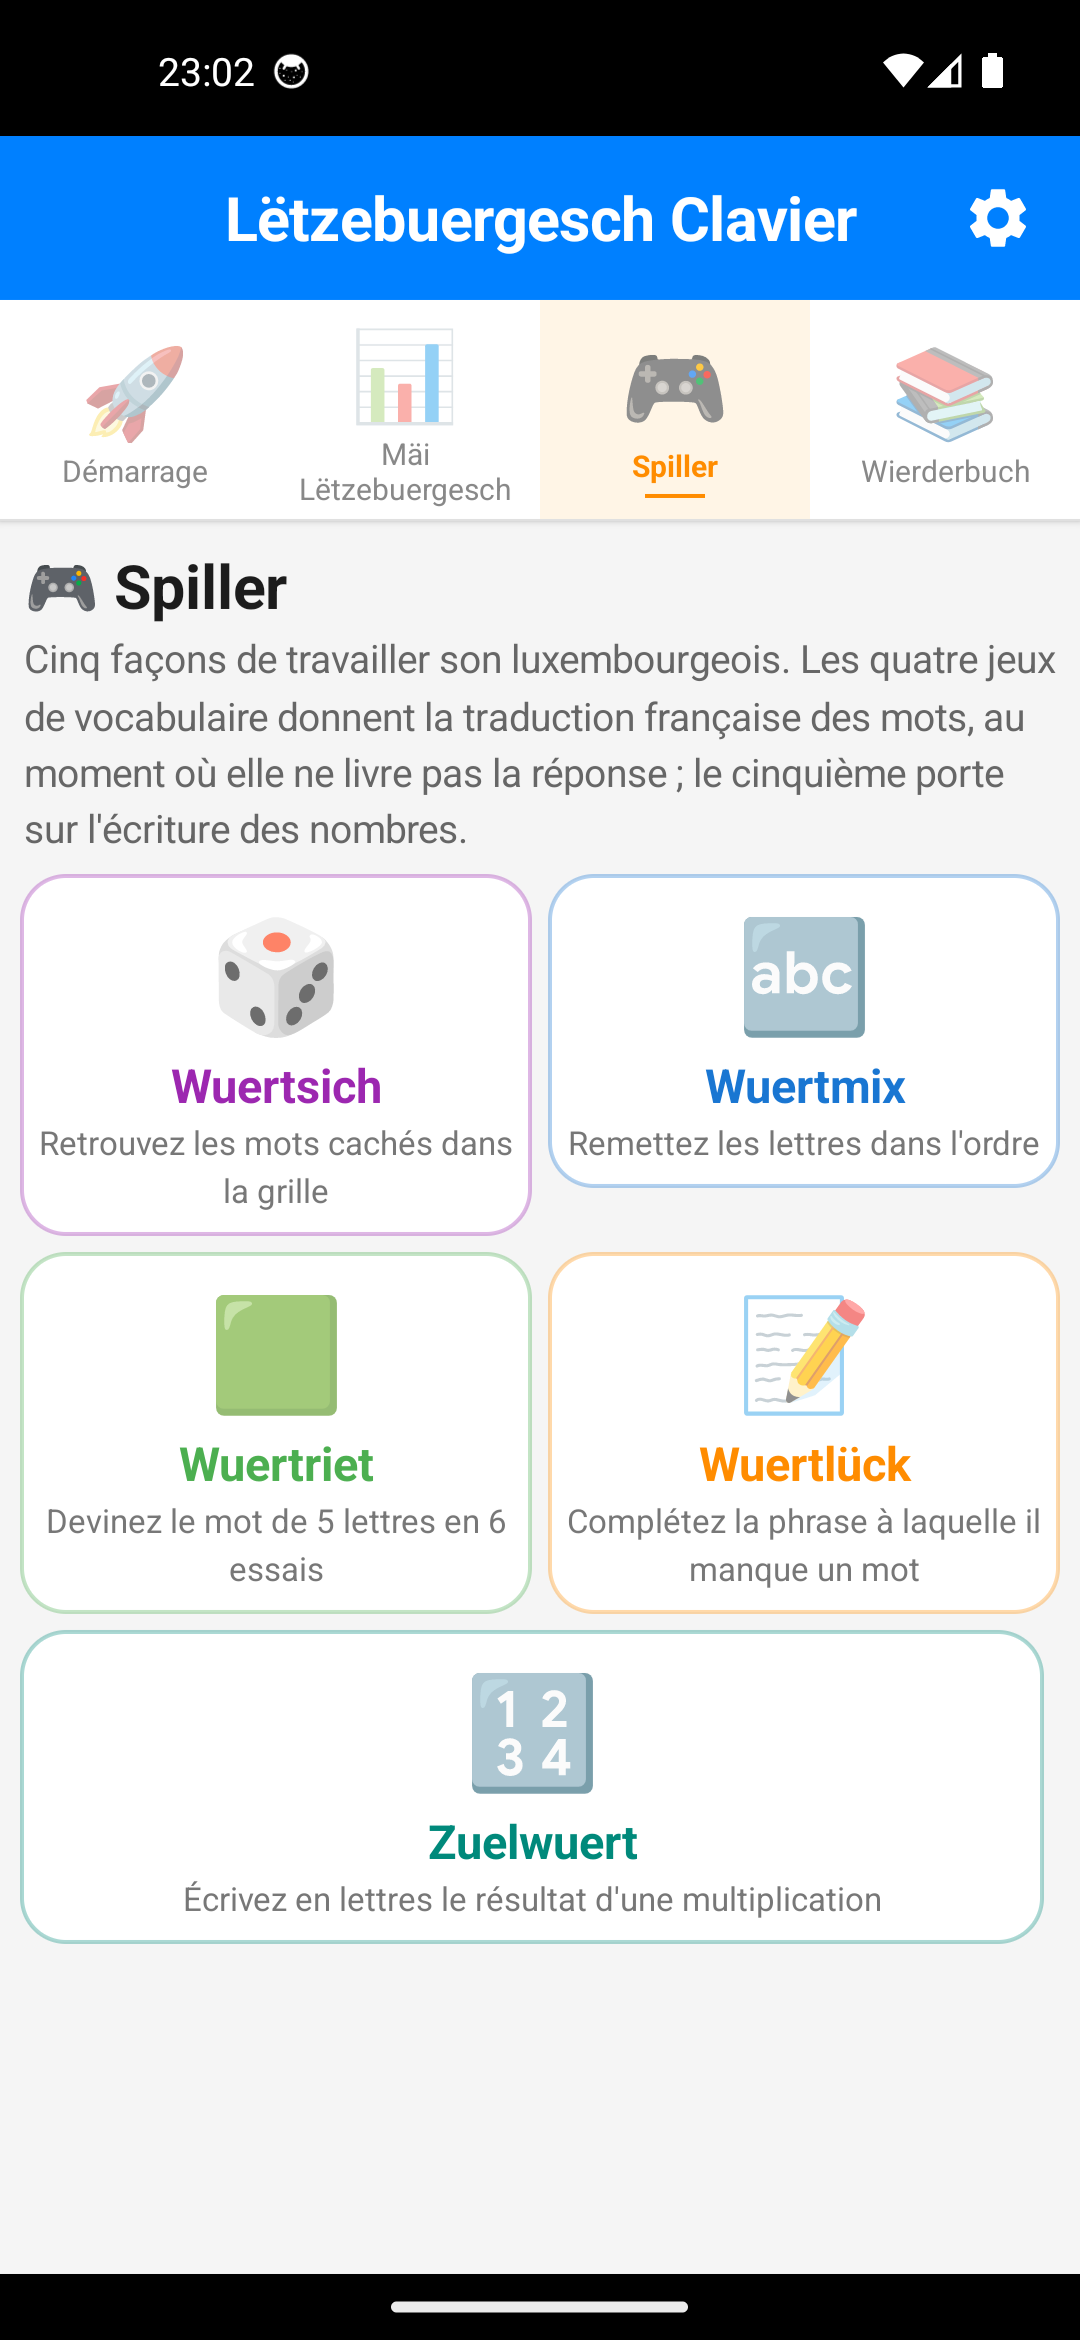
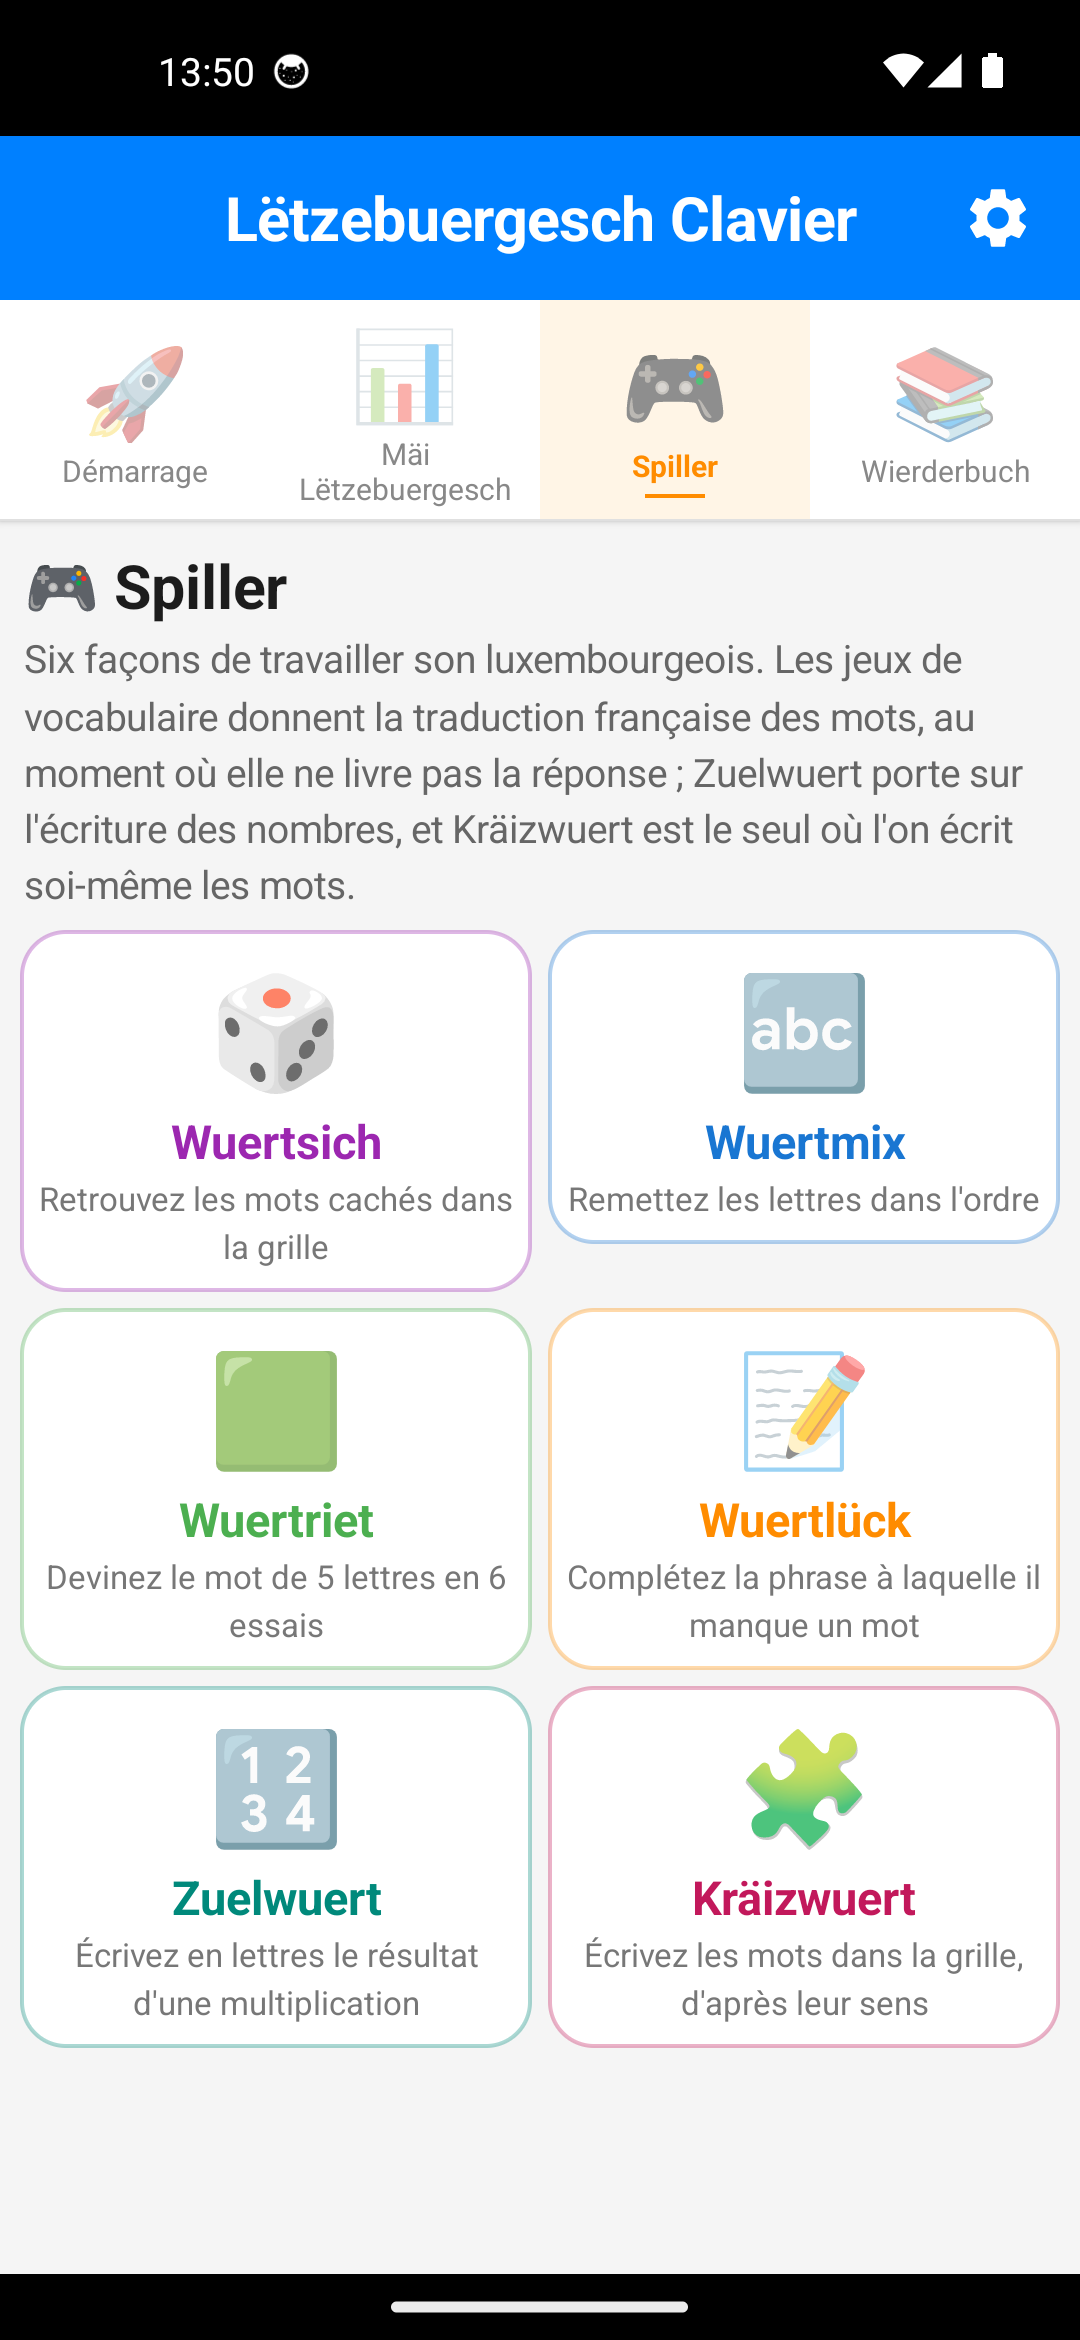
docs(site): le site compte six jeux, et l'inventaire des licences le nouvel actif
Onze mentions de « cinq jeux » devenues fausses, réparties sur la FAQ, le
dossier institutionnel, la feuille de route, le dossier de presse, la page
ambassadeurs et les deux triptyques. La capture de l'écran Spiller est
refaite : elle montrait cinq cartes.

Le dossier des licences gagne sa ligne pour luxemburgish_crossword.json,
et c'est la raison principale de ce commit : un inventaire destiné à un
ministère qui oublie un actif est faux, pas incomplet. Il est surligné
comme ses voisins — les définitions viennent du LOD en CC0, mais les mots
et leurs fréquences des deux corpus, donc la clause non commerciale de
LuxAlign le suit. Les totaux passent de 16,4 à 16,6 Mo sur les cinq pages
qui les citent ; la part CC0 ne bouge pas.

Claude-Session: https://claude.ai/code/session_01VLsMG5gZcxQfZifNV6wA6H

Changed region(s): [[0.0, 0.2808, 1.0, 0.8735], [0.0, 0.8111, 0.0306, 0.8735], [0.9472, 0.3744, 0.9778, 0.4056]]

diff --git a/docs/presse.html b/docs/presse.html
@@ -138,7 +138,7 @@
     est ce que cette décision produit chez un tiers.
   </p>
   <div class="tiles">
-    <div class="tile"><span class="n">8,6 Mo</span><span class="k">de données issues des jeux ouverts du ZLS, sur 16,4 Mo au total</span></div>
+    <div class="tile"><span class="n">8,6 Mo</span><span class="k">de données issues des jeux ouverts du ZLS, sur 16,6 Mo au total</span></div>
     <div class="tile"><span class="n">123 265</span><span class="k">formes luxembourgeoises reconnues</span></div>
     <div class="tile"><span class="n">88 883</span><span class="k">traductions françaises, tirées du LOD</span></div>
     <div class="tile"><span class="n">38 348</span><span class="k">phrases d'exemple pour 26 149 mots</span></div>
@@ -163,7 +163,7 @@
         <tr><td>Données personnelles</td><td>Aucune collecte, aucune permission réseau, <a href="privacy/privacy-policy.html">politique de confidentialité</a></td></tr>
         <tr><td>Sources de données</td><td>Lëtzebuerger Online Dictionnaire et corpus de traduction du ZLS (CC0) ; corpus LuxAlign et LETZ de l'Université du Luxembourg ; Lexique 3.83 pour le français</td></tr>
         <tr><td>Dictionnaire</td><td>123 265 formes luxembourgeoises, 88 883 traduites, plus 125 348 formes françaises</td></tr>
-        <tr><td>Fonctions</td><td>Suggestions bilingues, correcteur système, disposition QWERTZ, dictionnaire embarqué avec exemples du LOD, cinq jeux, progression en huit niveaux</td></tr>
+        <tr><td>Fonctions</td><td>Suggestions bilingues, correcteur système, disposition QWERTZ, dictionnaire embarqué avec exemples du LOD, six jeux, progression en huit niveaux</td></tr>
         <tr><td>Disponibilité</td><td>Test fermé sur <a href="https://play.google.com/apps/testing/com.potomitan.luxkeyboard">Google Play</a> et <a href="https://github.com/famibelle/LuxKeyb/releases/latest">APK direct</a></td></tr>
         <tr><td>Auteur</td><td>Médhi Famibelle, projet indépendant, sans structure commerciale</td></tr>
       </tbody>
@@ -196,8 +196,8 @@
       <figcaption>Progression et mot du jour</figcaption>
     </figure>
     <figure>
-      <img src="Screenshots/lux_spiller.png" alt="Écran Spiller présentant les cinq jeux de vocabulaire">
-      <figcaption>Les cinq jeux de vocabulaire</figcaption>
+      <img src="Screenshots/lux_spiller.png" alt="Écran Spiller présentant les six jeux de vocabulaire">
+      <figcaption>Les six jeux de vocabulaire</figcaption>
     </figure>
     <figure>
       <img src="Screenshots/lux_wuertsich.png" alt="Jeu Wuertsich : grille de lettres où retrouver des mots luxembourgeois">

diff --git a/docs/faq.html b/docs/faq.html
@@ -198,7 +198,7 @@
       "name": "À quoi servent les jeux et les niveaux ?",
       "acceptedAnswer": {
         "@type": "Answer",
-        "text": "À réviser le vocabulaire sans y penser. Quatre jeux puisent dans le même dictionnaire que le clavier : Wuertsich (mots mêlés), Wuertmix (remettre des lettres dans l'ordre), Wuertriet (deviner un mot de cinq lettres en six essais) et Wuertlück (retrouver le mot qui manque à une phrase luxembourgeoise authentique) ; un cinquième, Zuelwuert, porte sur l'écriture des nombres. En parallèle, huit niveaux jalonnent votre progression, d'Ufänker à Sproochenmeeschter, selon la part du dictionnaire que vous avez déjà employée. Tout cela est facultatif et ne change rien à la frappe."
+        "text": "À réviser le vocabulaire sans y penser. Quatre jeux puisent dans le même dictionnaire que le clavier : Wuertsich (mots mêlés), Wuertmix (remettre des lettres dans l'ordre), Wuertriet (deviner un mot de cinq lettres en six essais) et Wuertlück (retrouver le mot qui manque à une phrase luxembourgeoise authentique) ; un cinquième, Zuelwuert, porte sur l'écriture des nombres, et un sixième, Kräizwuert, est des mots croisés dont les définitions sont en français et les cases à remplir en luxembourgeois, accents compris. En parallèle, huit niveaux jalonnent votre progression, d'Ufänker à Sproochenmeeschter, selon la part du dictionnaire que vous avez déjà employée. Tout cela est facultatif et ne change rien à la frappe."
       }
     },
     {
@@ -737,6 +737,14 @@ footer.page{margin-top:44px;padding-top:18px;border-top:1px solid var(--line);fo
         <strong>Zuelwuert</strong>, porte sur l'écriture des nombres : une
         multiplication, et quatre orthographes de son résultat dont une seule
         est correcte.
+      </p>
+      <p>
+        Le sixième, <strong>Kräizwuert</strong>, est des mots croisés, et le
+        seul où l'on écrit soi-même le luxembourgeois : les définitions sont en
+        français, les cases sont vides, et les accents comptent — Ä, Ë, É, Ö et
+        Ü sont sur le pavé du jeu. Chaque mot trouvé rappelle son orthographe
+        véritable, puisqu'une grille en capitales efface justement la majuscule
+        des substantifs.
       </p>
       <p>
         En parallèle, huit niveaux jalonnent votre progression, d'<em>Ufänker</em>

diff --git a/docs/dossier-note.html b/docs/dossier-note.html
@@ -315,7 +315,7 @@ Aujourd'hui, un Luxembourgeois qui écrit un message dans sa langue se
   </p>
 
   <div class="tiles">
-    <div class="tile"><span class="n">8,6 Mo</span><span class="k">de données issues du ZLS embarquées, sur 16,4 Mo au total</span></div>
+    <div class="tile"><span class="n">8,6 Mo</span><span class="k">de données issues du ZLS embarquées, sur 16,6 Mo au total</span></div>
     <div class="tile"><span class="n">123 265</span><span class="k">formes luxembourgeoises reconnues, dont 84 855 par le seul LOD</span></div>
     <div class="tile"><span class="n">88 883</span><span class="k">traductions françaises affichées, tirées du LOD</span></div>
     <div class="tile"><span class="n">38 348</span><span class="k">phrases d'exemple du LOD, montrées dans l'application</span></div>
@@ -591,7 +591,7 @@ Aujourd'hui, un Luxembourgeois qui écrit un message dans sa langue se
         <tr><td>Sources de données</td><td>LOD et corpus de traduction du ZLS (CC0) ; LuxAlign et LETZ (Université du Luxembourg) ; Lexique 3.83 pour le français</td></tr>
         <tr><td>Dictionnaire</td><td>123 265 formes luxembourgeoises, 88 883 traduites, plus 125 348 formes françaises</td></tr>
         <tr><td>Modèle de prédiction</td><td>27 746 contextes, dont 17 798 à deux mots</td></tr>
-        <tr><td>Fonctions</td><td>Suggestions bilingues, correcteur système, disposition QWERTZ, dictionnaire embarqué avec exemples du LOD, cinq jeux, progression en huit niveaux</td></tr>
+        <tr><td>Fonctions</td><td>Suggestions bilingues, correcteur système, disposition QWERTZ, dictionnaire embarqué avec exemples du LOD, six jeux, progression en huit niveaux</td></tr>
         <tr><td>Disponibilité</td><td>Test fermé sur <a href="https://play.google.com/apps/testing/com.potomitan.luxkeyboard">Google Play</a> et <a href="https://github.com/famibelle/LuxKeyb/releases/latest">APK direct</a></td></tr>
         <tr><td>Auteur</td><td>Médhi Famibelle, projet indépendant, sans structure commerciale</td></tr>
       </tbody>

diff --git a/docs/dossier-licences.html b/docs/dossier-licences.html
@@ -101,12 +101,13 @@
         <tr style="background:var(--sun-soft);"><td><span class="lux">luxemburgish_dict.json</span><br><span class="muted">fréquences</span></td><td>LuxAlign + LETZ</td><td><b>CC BY-NC 4.0</b></td><td class="num">1 245 Ko</td><td class="lic-no">Accord requis</td></tr>
         <tr style="background:var(--sun-soft);"><td><span class="lux">luxemburgish_ngrams.json</span><br><span class="muted">prédiction contextuelle</span></td><td>LuxAlign + LETZ</td><td><b>CC BY-NC 4.0</b></td><td class="num">5 262 Ko</td><td class="lic-no">Accord requis</td></tr>
         <tr style="background:var(--sun-soft);"><td><span class="lux">luxemburgish_cloze.json</span><br><span class="muted">jeu Wuertlück</span></td><td>LuxAlign + LETZ</td><td><b>CC BY-NC 4.0</b></td><td class="num">234 Ko</td><td class="lic-no">Accord requis</td></tr>
+        <tr style="background:var(--sun-soft);"><td><span class="lux">luxemburgish_crossword.json</span><br><span class="muted">jeu Kräizwuert</span></td><td>Mots : LuxAlign + LETZ<br>Définitions : LOD, ZLS</td><td><b>CC BY-NC 4.0</b></td><td class="num">219 Ko</td><td class="lic-no">Accord requis</td></tr>
       </tbody>
     </table>
   </div>
   <p class="muted" style="margin-top:14px;">
-    <b>8,6 Mo sur 16,4 sont en CC0</b>, donc sans aucune contrainte. Les trois
-    fichiers surlignés, qui pèsent 6,7 Mo, sont ceux dont il faut parler.
+    <b>8,6 Mo sur 16,6 sont en CC0</b>, donc sans aucune contrainte. Les quatre
+    fichiers surlignés, qui pèsent 6,8 Mo, sont ceux dont il faut parler.
   </p>
 </section>
 

diff --git a/docs/ambassadeurs.html b/docs/ambassadeurs.html
@@ -255,7 +255,7 @@ Je vous signale un clavier Android gratuit et open source entièrement dédié a
 
 Disposition QWERTZ, touches é, ä et ë en accès direct, apostrophe d'élision sur sa propre touche (d'Land, s'Kanner). 123 265 formes luxembourgeoises reconnues et prédiction du mot suivant sur 26 172 contextes, régénérés à partir de deux corpus publics (LuxAlign et LETZ, ce dernier étant constitué des phrases d'exemple du Lëtzebuerger Online Dictionnaire). Il tolère les fautes de frappe et l'écriture sans diacritiques : « letzebuergesch » propose « lëtzebuergesch ».
 
-Deux points qui peuvent vous intéresser en contexte scolaire : l'application n'a aucune permission réseau, donc rien de ce qui est tapé ne quitte l'appareil ; et elle comporte cinq jeux ainsi qu'une progression par niveaux : quatre jeux de vocabulaire construits sur le même dictionnaire, et un jeu d'écriture des nombres en luxembourgeois.
+Deux points qui peuvent vous intéresser en contexte scolaire : l'application n'a aucune permission réseau, donc rien de ce qui est tapé ne quitte l'appareil ; et elle comporte six jeux ainsi qu'une progression par niveaux : quatre jeux de vocabulaire construits sur le même dictionnaire, un jeu d'écriture des nombres, et des mots croisés dont les définitions sont en français et les cases à remplir en luxembourgeois.
 
 Il s'essaie sans rien installer, directement dans le navigateur :
 https://famibelle.github.io/LuxKeyb/simulateur.html

diff --git a/docs/dossier-feuille-de-route.html b/docs/dossier-feuille-de-route.html
@@ -59,7 +59,7 @@
     Avant de décrire ce qui reste, il faut dire ce qui existe : l'application
     est développée, publiée et fonctionnelle. Le moteur de suggestions, le
     correcteur système, le dictionnaire embarqué avec les exemples du LOD, les
-    cinq jeux et la progression sont écrits, testés et livrés. La chaîne de
+    six jeux et la progression sont écrits, testés et livrés. La chaîne de
     fabrication des données est automatisée et rejouable.
   </p>
   <p>
@@ -136,7 +136,7 @@ C'est le meilleur rapport entre l'effort et le résultat, et le seul chantier
     <i>Flexiounstabellen</i> du LOD, déjà évaluées, déjà accessibles, pas
     encore exploitées.</li>
     <li><b>Adossement au Grondwuertschatz A1/A2</b> que le ZLS finalise avec
-    l'INLL en 2026 : il donnerait aux cinq jeux et au mot du jour une
+    l'INLL en 2026 : il donnerait aux six jeux et au mot du jour une
     progression alignée sur les niveaux d'apprentissage officiels, au lieu du
     seul classement par fréquence.</li>
     <li><b>Remontée des mots manquants.</b> Le ZLS a reçu 2 470 propositions de

diff --git a/docs/dossier-technique.html b/docs/dossier-technique.html
@@ -61,7 +61,7 @@
         <tr><td>Nature</td><td>Un <i>Input Method Editor</i> Android, c'est-à-dire le composant système qui remplace le clavier, plus un service de correction orthographique déclaré séparément</td></tr>
         <tr><td>Langage</td><td>Kotlin, sans dépendance externe pour le moteur</td></tr>
         <tr><td>Compatibilité</td><td>Android 5.0 (API 21) à Android 16 (API 36)</td></tr>
-        <tr><td>Taille</td><td>Environ 7,7 Mo installés, dont 16,4 Mo de données compressées à 7 Mo</td></tr>
+        <tr><td>Taille</td><td>Environ 7,7 Mo installés, dont 16,6 Mo de données compressées à 7 Mo</td></tr>
         <tr><td>Réseau</td><td><b>Aucune permission réseau déclarée.</b> L'application fonctionne en mode avion</td></tr>
         <tr><td>Tests</td><td>209 tests unitaires exécutés à chaque intégration, dont plusieurs lisent les fichiers de données réellement livrés</td></tr>
       </tbody>

diff --git a/docs/dossier.html b/docs/dossier.html
@@ -122,7 +122,7 @@ Aujourd'hui, écrire un message en luxembourgeois, c'est se battre contre son
 <section>
   <h2>Trois chiffres pour situer</h2>
   <div class="tiles">
-    <div class="tile"><span class="n">8,6 Mo</span><span class="k">de données issues des jeux ouverts du ZLS embarquées dans l'application, sur 16,4 Mo au total</span></div>
+    <div class="tile"><span class="n">8,6 Mo</span><span class="k">de données issues des jeux ouverts du ZLS embarquées dans l'application, sur 16,6 Mo au total</span></div>
     <div class="tile"><span class="n">123 265</span><span class="k">formes luxembourgeoises reconnues, contre 71 255 pour le dictionnaire Android figé depuis 2013</span></div>
     <div class="tile"><span class="n">0 €</span><span class="k">de financement public reçu à ce jour par le projet</span></div>
   </div>

diff --git a/docs/triptyque-eco.html b/docs/triptyque-eco.html
@@ -435,7 +435,7 @@ body[data-print-mode="verso"] #face-recto{ display:none; }
         <img class="s1" src="Screenshots/lux_suggestions.png" alt="Le clavier pendant la frappe : suggestions luxembourgeoises en rouge, françaises en bleu">
         <img class="s2" src="Screenshots/lux_accents.png" alt="Appui long sur la touche e : le choix é, ë, è et ê s'ouvre">
       </div>
-      <div class="callout">À l'intérieur : les diacritiques en accès direct, un correcteur qui vaut pour toutes vos applications, cinq jeux et huit niveaux de progression. Retournez le dépliant.</div>
+      <div class="callout">À l'intérieur : les diacritiques en accès direct, un correcteur qui vaut pour toutes vos applications, six jeux et huit niveaux de progression. Retournez le dépliant.</div>
     </div>
 
     <!-- P3 : couverture -->

diff --git a/docs/triptyque.html b/docs/triptyque.html
@@ -438,7 +438,7 @@ body[data-print-mode="verso"] #face-recto{ display:none; }
         <img class="s1" src="Screenshots/lux_suggestions.png" alt="Le clavier pendant la frappe : suggestions luxembourgeoises en rouge, françaises en bleu">
         <img class="s2" src="Screenshots/lux_accents.png" alt="Appui long sur la touche e : le choix é, ë, è et ê s'ouvre">
       </div>
-      <div class="callout">À l'intérieur : les diacritiques en accès direct, un correcteur qui vaut pour toutes vos applications, cinq jeux et huit niveaux de progression. Retournez le dépliant.</div>
+      <div class="callout">À l'intérieur : les diacritiques en accès direct, un correcteur qui vaut pour toutes vos applications, six jeux et huit niveaux de progression. Retournez le dépliant.</div>
     </div>
 
     <!-- P3 : couverture -->
